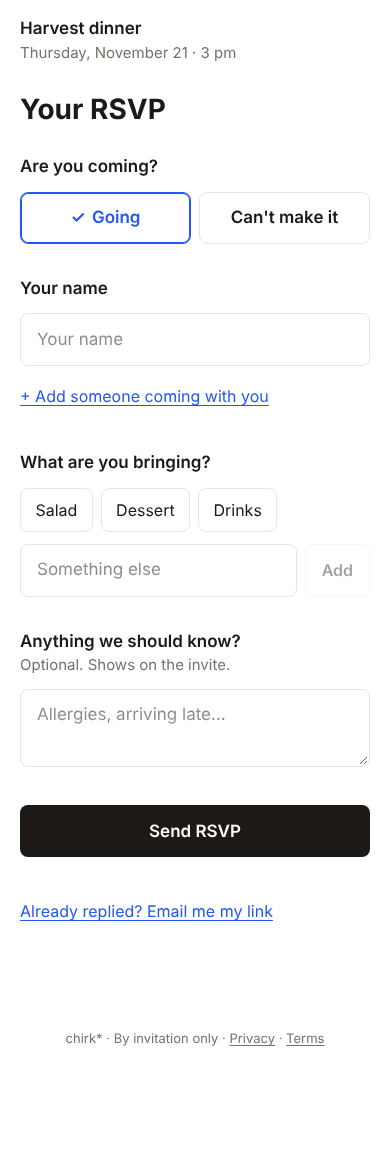
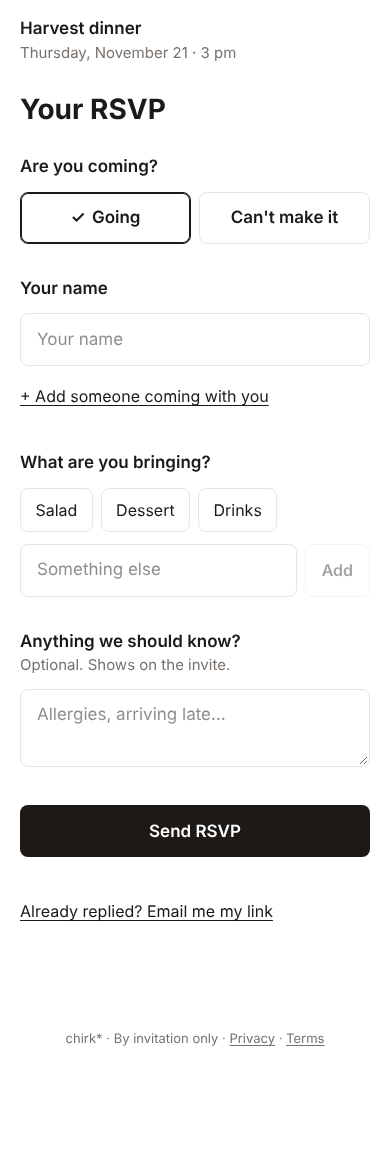
Guest UI: back to monochrome; cover never cropped on desktop
- Cover: Stage 3's md:max-h-[55vh] with object-cover cropped tall covers on desktop (196px of the Thanksgiving poster at 1280x900). From 768px wide there's no cap now: full column width, natural shape, nothing cut. Phones unchanged.
- Chirk blue removed from the guest flow: links ink and underlined, picked choices ink outline + check, ink focus. All through --color-accent (ink for now) so a brand color is one value later.
- Baselines re-captured; patterns doc updated.

Claude-Session: https://claude.ai/code/session_01QEhNiqdcSBmSfKonPFu65E

diff --git a/src/app/globals.css b/src/app/globals.css
@@ -7,8 +7,7 @@
   --color-soft: #78716c;
   --color-line: #e7e5e4;
   --color-wash: #f5f5f4;
-  --color-accent: #1c1917;
-  --color-link: #2457F5; /* chirk blue: links, focus, selected choices. Never a surface. */
+  --color-accent: #1c1917; /* links, focus, picked choices (and older host buttons). Ink for now; the brand color goes here later. */
   --font-sans: ui-sans-serif, system-ui, -apple-system, "Segoe UI", Roboto, sans-serif;
 }
 
@@ -87,25 +86,25 @@ input[type="checkbox"], input[type="radio"] { accent-color: var(--color-ink); }
   font-weight: 600; font-size: 16px; background: white; color: var(--color-ink); border: 1.5px solid var(--color-line);
   &:disabled { opacity: .4; }
 }
-/* Links and secondary actions: chirk blue, underlined. */
+/* Links and secondary actions: accent (ink for now), underlined. */
 @utility link {
-  color: var(--color-link); text-decoration: underline; text-underline-offset: 3px; text-decoration-thickness: 1px;
+  color: var(--color-accent); text-decoration: underline; text-underline-offset: 3px; text-decoration-thickness: 1px;
 }
 /* A link or text button that stands alone gets a 44px tap target without looking bigger. */
 @utility tap {
   display: inline-flex; align-items: center; min-height: 44px;
 }
-/* Something you pick (Going / Can't make it, what you're bringing): outlined; picked = blue outline, blue text, a check. */
+/* Something you pick (Going / Can't make it, what you're bringing): outlined; picked = accent outline, accent text, a check. */
 @utility choice {
   display: inline-flex; align-items: center; justify-content: center; gap: .4rem; min-height: 44px;
   padding: .5rem .9rem; border-radius: 8px; border: 1.5px solid var(--color-line); background: white;
   font-size: 16px; color: var(--color-ink); text-align: left;
-  &[aria-pressed="true"] { border-color: var(--color-link); box-shadow: inset 0 0 0 1px var(--color-link); color: var(--color-link); font-weight: 600; }
+  &[aria-pressed="true"] { border-color: var(--color-accent); box-shadow: inset 0 0 0 1px var(--color-accent); color: var(--color-accent); font-weight: 600; }
   &[aria-pressed="true"]::before { content: "✓"; }
 }
 
 .guest .field { border-radius: 8px; }
-.guest .field:focus { border-color: var(--color-link); }
-/* One visible focus ring for keyboard users: chirk blue. */
-.guest :is(a, button, summary, [role="button"]):focus-visible { outline: 2px solid var(--color-link); outline-offset: 2px; border-radius: 4px; }
+.guest .field:focus { border-color: var(--color-accent); }
+/* One visible focus ring for keyboard users, in the accent (ink for now). */
+.guest :is(a, button, summary, [role="button"]):focus-visible { outline: 2px solid var(--color-accent); outline-offset: 2px; border-radius: 4px; }
 .guest :is(.button, .button-quiet, .choice):focus-visible { border-radius: 8px; }

diff --git a/src/components/Cover.tsx b/src/components/Cover.tsx
@@ -6,6 +6,8 @@ import { useEffect, useRef, useState } from "react";
 /**
  * The cover photo. If the link doesn't load, guests simply see no photo (never a broken box),
  * and on the host's form a warning explains why.
+ * Full column width at its natural shape. Phones still cap very tall photos at 70% of the screen (trimmed from the bottom,
+ * since Nov 14); from 768px wide there's no cap, so nothing is cut.
  */
 export function Cover({ src, host = false }: { src: string; host?: boolean }) {
   const ref = useRef<HTMLImageElement>(null);
@@ -23,7 +25,7 @@ export function Cover({ src, host = false }: { src: string; host?: boolean }) {
       </p>
     ) : null;
   }
-  return <img ref={ref} src={src} alt={host ? "Current cover" : ""} onError={() => setBroken(true)} className={host ? "h-auto w-32 rounded-lg" : "h-auto max-h-[70svh] w-full object-cover object-top md:max-h-[55vh]"} />;
+  return <img ref={ref} src={src} alt={host ? "Current cover" : ""} onError={() => setBroken(true)} className={host ? "h-auto w-32 rounded-lg" : "h-auto max-h-[70svh] w-full object-cover object-top md:max-h-none"} />;
 }
 
 /** Resolves to whether an image link loads (used before copying an invite for email). */

diff --git a/docs/CHIRK_UI_PATTERNS.md b/docs/CHIRK_UI_PATTERNS.md
@@ -17,28 +17,30 @@ Pages opt in with `class="guest"` on `<main>` (today: the invite, RSVP and reply
 | `--color-ink` | #1c1917 | text, the primary button |
 | `--color-soft` | #78716c | secondary text (dates in lists, hints, signatures) |
 | `--color-line` | #e7e5e4 | hairlines, outlines of fields and choices |
-| `--color-link` | **#2457F5** (chirk blue) | links, focus rings, picked choices. **Never a surface or fill.** |
+| `--color-accent` | #1c1917 (ink, **for now**) | links, focus rings, picked choices. The brand color goes here later; never a surface or fill. |
+
+**Monochrome for now (Nov 18):** chirk blue (#2457F5) was tried and taken out of the guest UI: on a formal invite it read too literally "HTML". The guest flow is ink, warm gray and white; links are ink and underlined. Components use `--color-accent`, so a brand color is one value away. (Older host buttons also use `--color-accent` for their fill; when a color returns, those move to `--color-ink` first.) Status colors stay only where they mean something (green = Going, amber/red alerts).
 
 ## Actions
 
 - **Primary: `button`.** Ink, white text, 8px corners, 52px tall, full width on phones. **One per screen**, and only where there's a real next step (the invite: RSVP; the RSVP form: Send RSVP / Save). A finished state (the confirmation) has none.
 - **Secondary beside a field: `button-quiet`.** White, hairline outline, 8px, ≥44px. For Send / Add next to an input. Never louder than the primary.
-- **Secondary elsewhere: `link`.** Chirk blue, underlined. Add to calendar, Change my reply, + Bring something else, Already replied?. Standalone links add **`tap`** (inline-flex, 44px tall) so the target is big without looking big. A link that *is* the next step (Add to calendar on the confirmation) is `link` + semibold.
+- **Secondary elsewhere: `link`.** Accent (ink), underlined. Add to calendar, Change my reply, + Bring something else, Already replied?. Standalone links add **`tap`** (inline-flex, 44px tall) so the target is big without looking big. A link that *is* the next step (Add to calendar on the confirmation) is `link` + semibold.
 - **Destructive:** unchanged for now (gray link, then a red "Sure?"); revisit with the host tools.
 
 ## Choices (Going / Can't make it, bring items, parts of the day, who's this)
 
-- **`choice`**: white, hairline outline, 8px, ≥44px. **Picked** (`aria-pressed="true"`): blue outline (2px), blue semibold text, a ✓ before the label. No fill.
+- **`choice`**: white, hairline outline, 8px, ≥44px. **Picked** (`aria-pressed="true"`): accent (ink) outline (2px), ink semibold text, a ✓ before the label. No fill.
 - Going / Can't make it: two equal choices side by side, 52px.
 - Bring items use the same `choice` everywhere: on the invite each Still needed item is a `choice` **link** that opens the RSVP with it picked (`?pick=<item id>`; returning guests land on their reply with it picked); in the form they're `choice` buttons.
 
 ## Fields
 
-- `field`, inside `.guest`: 8px corners, hairline outline, **blue outline on focus**. 17px text (no iPhone zoom).
+- `field`, inside `.guest`: 8px corners, hairline outline, **ink outline on focus**. 17px text (no iPhone zoom).
 
 ## Focus
 
-- One ring for keyboard users: **2px chirk blue, 2px offset** on links, buttons, summaries and choices (`.guest :focus-visible`). Fields show focus with a blue outline instead.
+- One ring for keyboard users: **2px ink, 2px offset** on links, buttons, summaries and choices (`.guest :focus-visible`). Fields show focus with an ink outline instead.
 
 ## Type and rhythm
 
@@ -67,6 +69,11 @@ Only where containment means something: **alerts** (red/amber, 8px) and, on othe
 4. Change my reply (link) → the form opens in place.
 5. Keep your link (a quiet section: one line, email + Send, Copy the link instead).
 No new primary button: the reply is done.
+
+## Cover photo
+
+- Full width of the column at the photo's **natural shape; never cropped** from 768px wide (no height cap there).
+- Phones still cap very tall photos at 70% of the screen height, trimmed from the bottom (since Nov 14). *Open: this crops tall photos (62px of the Thanksgiving poster); removing the cap would show them whole.*
 
 ## When optional content is absent
 

diff --git a/STATUS.md b/STATUS.md
@@ -14,8 +14,12 @@ Everything up to Nov 16's "fixes-3":
 - Gift exchange: who's in, never-draw pairs, rules, draws, matches by email, reminders
 - Hosts added to their own guest lists as going (new events, co-hosts, copies only)
 
+## Waiting to go live (branch `mono-cover`)
+- **Cover regression fixed:** Stage 3's desktop cap (`md:max-h-[55vh]`) plus the existing `object-cover object-top` cropped the Thanksgiving poster by 196px at 1280×900 (273px on a 760px-tall laptop). From 768px wide the cap is gone: the photo shows whole at full column width (measured: 0px cut). Phones unchanged (a 70%-of-screen cap from Nov 14 still trims very tall photos; 62px of the poster; open question).
+- **Guest UI back to monochrome:** chirk blue removed; links ink and underlined, picked choices ink outline + ✓, ink focus ring. All via `--color-accent` (ink for now), so a brand color is one value later. Baselines re-captured.
+
 ## Went live Nov 18 (`guest-v2`): UI v2, Stage 3 guest slice
-- **Invite → RSVP → confirmation** in the v2 system (`docs/CHIRK_UI_PATTERNS.md`): chirk blue #2457F5 for links, focus and picked choices; 8px ink primary button; choices with a blue outline and ✓; no guest-side boxes; notes as plain quotes; RSVP right after what/when/where; Coming hidden until someone's going.
+- **Invite → RSVP → confirmation** in the v2 system (`docs/CHIRK_UI_PATTERNS.md`): (shipped with chirk blue #2457F5 for links, focus and picked choices, since taken back to monochrome); 8px ink primary button; choices with a blue outline and ✓; no guest-side boxes; notes as plain quotes; RSVP right after what/when/where; Coming hidden until someone's going.
 - **B1 fixed:** each Still needed item opens the RSVP with it already picked. **B3 fixed:** the confirmation shows the event, date, place and Add to calendar.
 - RSVP keeps the event name and date on top, then "Your RSVP" / "Are you coming?"; "Already replied?" is a quiet link at the bottom.
 - Desktop cover photo capped at 55% of the screen height; phones unchanged.

diff --git a/DESIGN.md b/DESIGN.md
@@ -1,6 +1,6 @@
 # chirk: design notes (as of Nov 18, 2026)
 
-> **v2 in progress:** the guest flow (invite → RSVP → confirmation) now follows `docs/CHIRK_UI_PATTERNS.md` (chirk blue #2457F5 for links, focus and picked choices; 8px buttons; no guest-side boxes or pills that do nothing). Host pages below still describe the older look until Stage 6. Audit: `docs/UI_AUDIT_V2.md`.
+> **v2 in progress:** the guest flow (invite → RSVP → confirmation) now follows `docs/CHIRK_UI_PATTERNS.md` (monochrome: ink links underlined, ink focus and picked choices via `--color-accent`; 8px buttons; no guest-side boxes or pills that do nothing; desktop covers never cropped). Host pages below still describe the older look until Stage 6. Audit: `docs/UI_AUDIT_V2.md`.
 
 *What chirk is and how we talk about it: LANGUAGE.md. This file is how it looks.*
 
